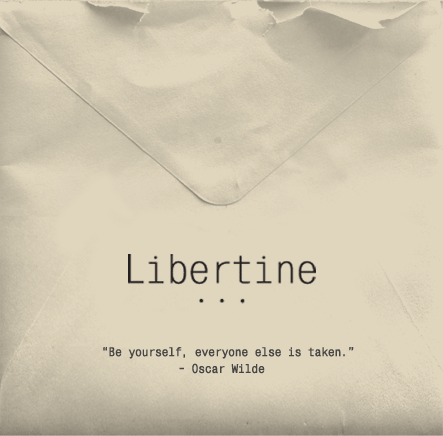
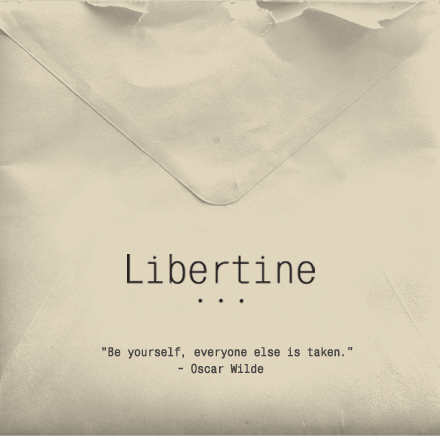
Change page width to 440px.

diff --git a/css/global.css b/css/global.css
@@ -24,7 +24,7 @@ body {
 	padding-right: 0;
 	padding-left: 0;
 	padding-bottom: 0;
-	width: 443px; /* new = 443px */
+	width: 440px;
 	margin-left: auto;
 	margin-bottom: 0;
 	margin-right: auto;
